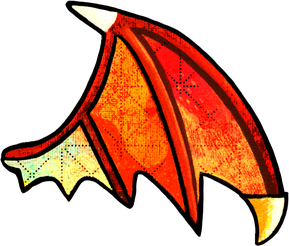
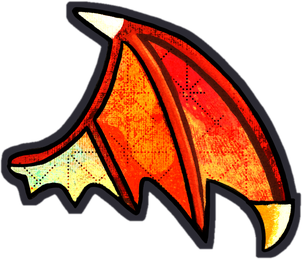
火龍之翼外框加粗，跟其他蠟筆圖一致
Claude-Session: https://claude.ai/code/session_01Kgu4HyV8rhxVS1HxiUiEEd

diff --git a/shared/gear.js b/shared/gear.js
@@ -1139,8 +1139,8 @@
     }
     // ---------- 繪師畫的翅膀圖：有圖就用圖，還沒有圖（或圖載入失敗）就用上面程式畫的 ----------
     // 圖只有右翅，左翅鏡像。x, y：圖左上角相對肩膀（翅根軸心）的位置，單位是人物框座標；px：圖上每一單位幾個像素
-    // 圖從繪師的 PSD（人物框 10 倍大）裁出右翅再縮小，軸心就是 PSD 上的 (980, 910)
-    const ART_FILES = { fire: { src: '/art/wing-fire.png', x: -2.9, y: -39.5, px: 4 } };
+    // 圖從繪師的 PSD（人物框 10 倍大）裁出右翅、外面加一圈粗黑邊（跟遊戲其他東西的外框一樣粗）再縮小，軸心就是 PSD 上的 (980, 910)
+    const ART_FILES = { fire: { src: '/art/wing-fire.png', x: -4.5, y: -41.1, px: 4 } };
     const ART = {};
     const api = { onArt: null };
     function prepArt(kind, img) {

diff --git a/changes/fire-dragon-wings-outline.md b/changes/fire-dragon-wings-outline.md
@@ -1,0 +1,1 @@
+- 火龍之翼的外框加粗，跟遊戲裡其他東西的蠟筆風格更一致
